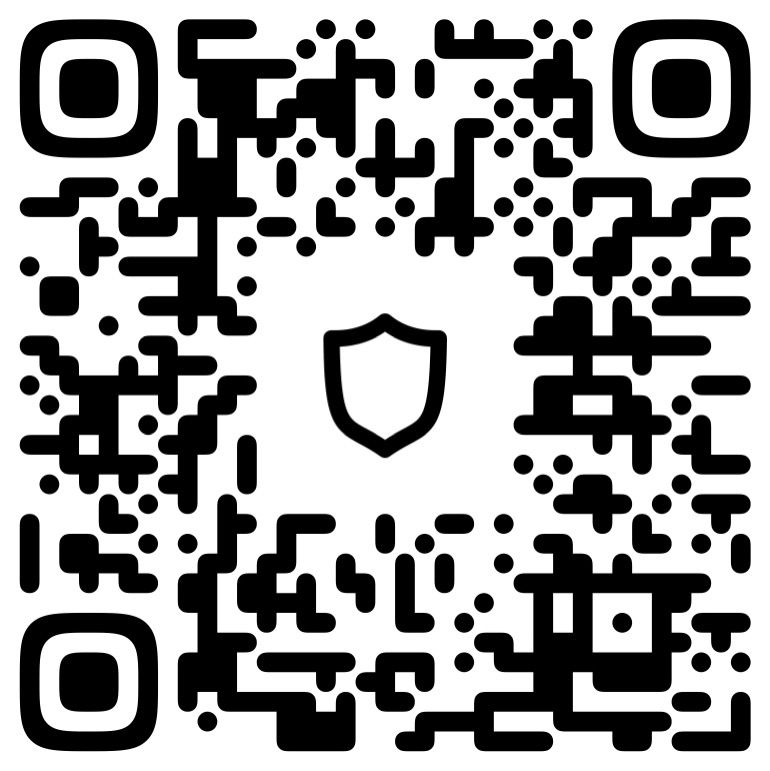
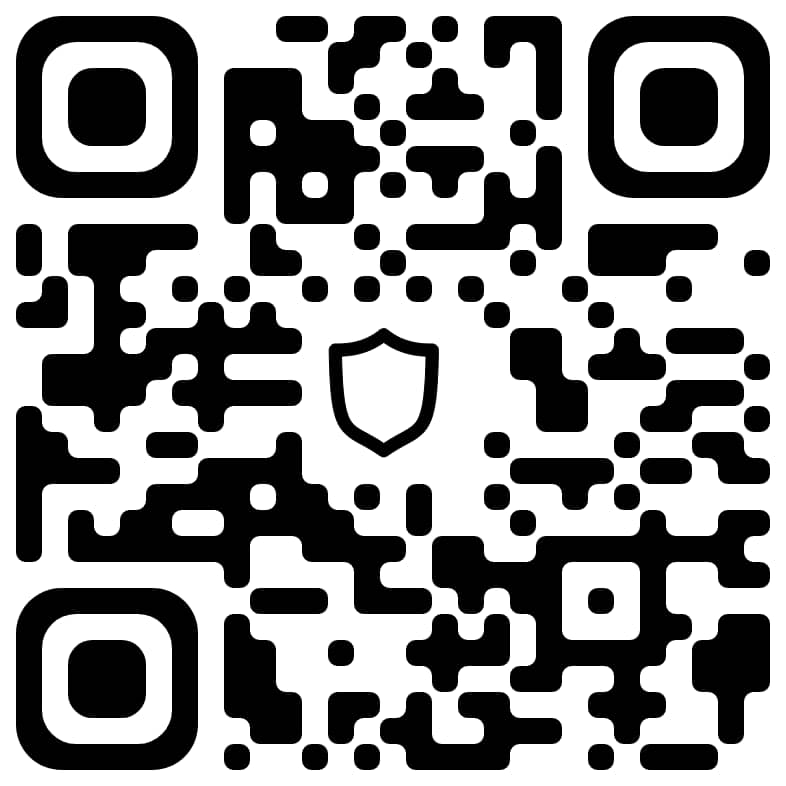
address

diff --git a/src/components/funding/Funding.js b/src/components/funding/Funding.js
@@ -22,16 +22,16 @@ let coin = {
     title: "Bitcoin",
     image: qr1,
     network: "BTC",
-    address: "bc1qxf9rtsjg6dpdapqex7k76dp53ufcvhwcckt8s3",
-    link: "https://link.trustwallet.com/send?asset=c0&address=bc1qxf9rtsjg6dpdapqex7k76dp53ufcvhwcckt8s3",
+    address: "bc1q3d0h3s2zspaw32ex75av6w9n20vxkn36z23mzn",
+    link: "https://link.trustwallet.com/send?coin=0&address=bc1q3d0h3s2zspaw32ex75av6w9n20vxkn36z23mzn",
   },
   ethereum: {
     id: 2,
     title: "Ethereum",
     image: qr2,
     network: "Erc 20",
-    address: "0x35493fedFA79Eb2831E1F8F05a70C1C0144c28cD",
-    link: "https://link.trustwallet.com/send?address=0x35493fedFA79Eb2831E1F8F05a70C1C0144c28cD&asset=c60",
+    address: "0xA2035847428DD26Cc312c98Fb105930395e7f0cc",
+    link: "https://link.trustwallet.com/send?coin=60&address=0xA2035847428DD26Cc312c98Fb105930395e7f0cc",
   }};
 
 
